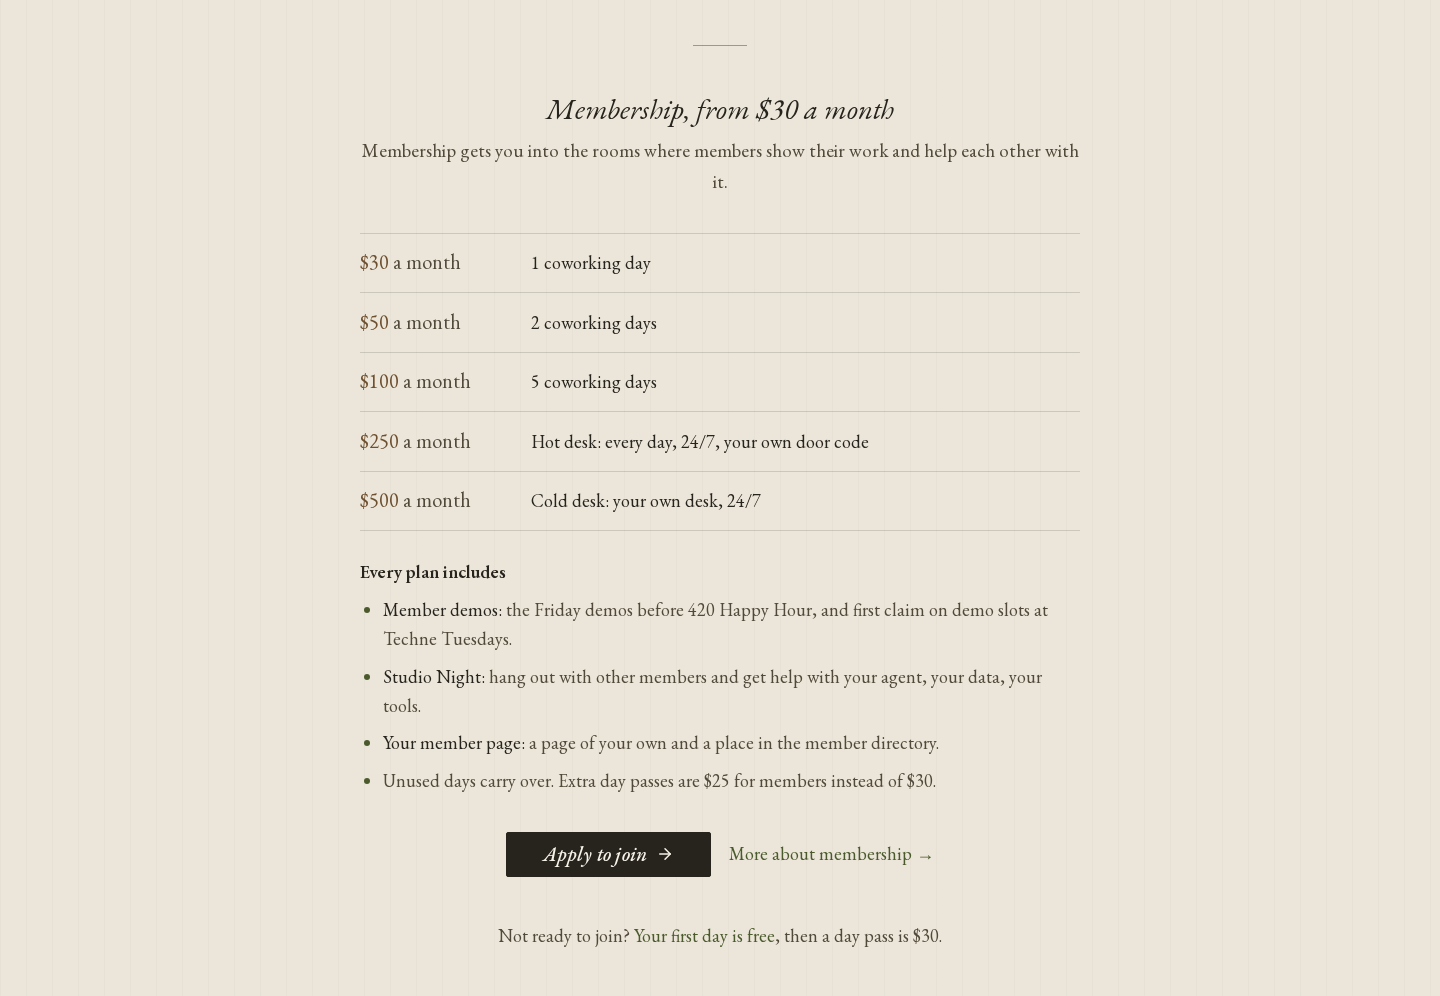
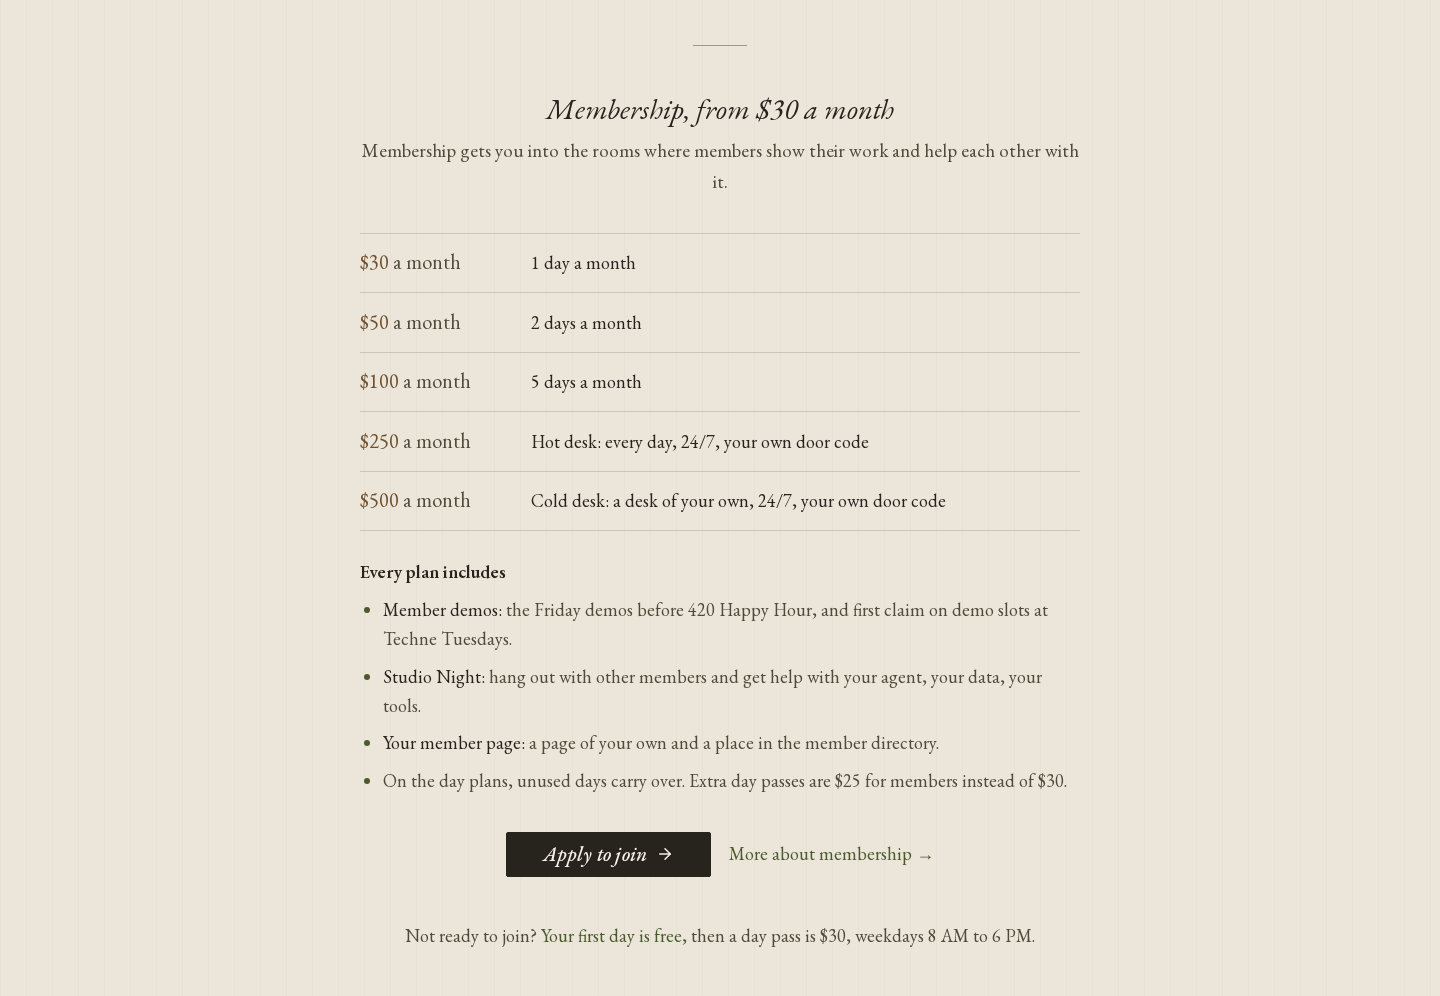
Ladder lines say what each step adds; day-pass hours back on home (T-482)
From the review of the ladder commit:
- Day rows read "1 day a month … every day … a desk of your own", so the ladder reads as one
  climb and the days keep their period.
- Carry-over is said for the day plans only; desks have no monthly days.
- The cold desk names its door code too, so the top step doesn't look like it gives less.
- Desk lines are keyed by the member type they grant, and an unknown step throws instead of
  falling through to "Cold desk".
- MEMBERSHIP_LADDER sorts by price, so "cheapest first" holds by construction.
- "Not ready to join?" keeps the day-pass hours (weekdays 8 AM to 6 PM) the old block had.
- The test also fails if RegenHubLanding sells a desk outside the ladder (comments stripped);
  the shots script reads prices with thousands separators.

diff --git a/apps/web/test/home-offer.test.ts b/apps/web/test/home-offer.test.ts
@@ -118,6 +118,9 @@ describe("the home page's nights", () => {
 });
 
 const src = (file: string) => readFileSync(new URL(`../src/${file}`, import.meta.url), "utf8");
+/** The source without comments: what can reach the page. */
+const code = (file: string) =>
+  src(file).replace(/\/\*[\s\S]*?\*\//g, "").replace(/\{\/\*[\s\S]*?\*\/\}/g, "").replace(/^\s*\/\/.*$/gm, "");
 const HOME_FILES = [
   "app/page.tsx",
   "components/landing/RegenHubLanding.tsx",
@@ -144,8 +147,7 @@ describe("the home page's words", () => {
   it("takes every price on home and /membership from lib/plans.ts: no dollar amount typed into the page", () => {
     for (const f of [...HOME_FILES, "app/membership/page.tsx", "components/membership/MemberOffer.tsx"]) {
       // Comments may name prices; the rendered copy may not.
-      const code = src(f).replace(/\/\*[\s\S]*?\*\//g, "").replace(/\{\/\*[\s\S]*?\*\/\}/g, "").replace(/^\s*\/\/.*$/gm, "");
-      expect(code, f).not.toMatch(/\$\d/);
+      expect(code(f), f).not.toMatch(/\$\d/);
     }
   });
 });
@@ -156,15 +158,15 @@ describe("the home page's membership", () => {
   const plans = html.match(/<ul[^>]*data-testid="home-member-plans"[^>]*>([\s\S]*?)<\/ul>/)?.[1] ?? "";
   const steps = [...plans.matchAll(/<li[^>]*>([\s\S]*?)<\/li>/g)].map((m) => text(m[1]));
 
-  it("is one ladder, cheapest first, from one coworking day to a desk of your own", () => {
+  it("is one ladder, cheapest first: 1, 2, 5 days a month, every day, a desk of your own", () => {
     // Aaron, 11-21: the desks are membership, not a separate "come by the day" block.
     const p = (c: number) => `${formatCents(c)} a month`;
     expect(steps).toEqual([
-      `${p(PLANS.member_basic.defaultMonthlyCents)} 1 coworking day`,
-      `${p(PLANS.member_2day.defaultMonthlyCents)} 2 coworking days`,
-      `${p(PLANS.member_5day.defaultMonthlyCents)} 5 coworking days`,
+      `${p(PLANS.member_basic.defaultMonthlyCents)} 1 day a month`,
+      `${p(PLANS.member_2day.defaultMonthlyCents)} 2 days a month`,
+      `${p(PLANS.member_5day.defaultMonthlyCents)} 5 days a month`,
       `${p(PLANS.hot_desk.defaultMonthlyCents)} Hot desk: every day, 24/7, your own door code`,
-      `${p(PLANS.cold_desk.defaultMonthlyCents)} Cold desk: your own desk, 24/7`,
+      `${p(PLANS.cold_desk.defaultMonthlyCents)} Cold desk: a desk of your own, 24/7, your own door code`,
     ]);
   });
 
@@ -177,5 +179,7 @@ describe("the home page's membership", () => {
     const after = html.slice(html.indexOf("home-not-ready"));
     expect(after.toLowerCase()).not.toContain("desk");
     expect(html).not.toContain("Or come by the day");
+    // The rest of the home page sells no desk of its own.
+    expect(code("components/landing/RegenHubLanding.tsx").toLowerCase()).not.toContain("desk");
   });
 });

diff --git a/apps/web/src/components/landing/HomeMembership.tsx b/apps/web/src/components/landing/HomeMembership.tsx
@@ -5,15 +5,21 @@ import {
   DAY_PASS_MEMBER_CENTS,
   DAY_PASS_PUBLIC_CENTS,
   MEMBERSHIP_LADDER,
-  PLANS,
-  coworkingDays,
   formatCents,
 } from "@/lib/plans";
 
-/** One step of the ladder in a few words: more days, then every day, then a desk of your own. */
+// The desk steps, by the member type they grant: every day, then a desk of your own (draft for Aaron).
+const DESK_LINES: Record<string, string> = {
+  hot_desk: "Hot desk: every day, 24/7, your own door code",
+  cold_desk: "Cold desk: a desk of your own, 24/7, your own door code",
+};
+
+/** One step of the ladder in a few words: 1, 2, 5 days a month, then every day, then a desk of your own. */
 export function ladderLine(p: (typeof MEMBERSHIP_LADDER)[number]): string {
-  if ("monthlyDayPasses" in p) return coworkingDays(p.monthlyDayPasses);
-  return p === PLANS.hot_desk ? "Hot desk: every day, 24/7, your own door code" : "Cold desk: your own desk, 24/7";
+  if ("monthlyDayPasses" in p) return `${p.monthlyDayPasses} day${p.monthlyDayPasses === 1 ? "" : "s"} a month`;
+  const line = DESK_LINES[p.grantsMemberType];
+  if (!line) throw new Error(`no ladder line for ${p.label}`);
+  return line;
 }
 
 /**
@@ -50,7 +56,7 @@ export default function HomeMembership() {
           directory.
         </li>
         <li>
-          Unused days carry over. Extra day passes are {formatCents(DAY_PASS_MEMBER_CENTS)} for members instead of{" "}
+          On the day plans, unused days carry over. Extra day passes are {formatCents(DAY_PASS_MEMBER_CENTS)} for members instead of{" "}
           {formatCents(DAY_PASS_PUBLIC_CENTS)}.
         </li>
       </ul>
@@ -72,7 +78,7 @@ export default function HomeMembership() {
         <Link href="/freeday" className="text-sage hover:underline">
           Your first day is free
         </Link>
-        , then a day pass is {formatCents(DAY_PASS_PUBLIC_CENTS)}.
+        , then a day pass is {formatCents(DAY_PASS_PUBLIC_CENTS)}, weekdays 8 AM to 6 PM.
       </p>
     </>
   );

diff --git a/apps/web/src/lib/plans.ts b/apps/web/src/lib/plans.ts
@@ -106,7 +106,9 @@ export const MEMBER_DAY_PLANS = [PLANS.member_basic, PLANS.member_2day, PLANS.me
  * The whole membership ladder, cheapest first: more days, then every day (hot desk), then a desk of your own
  * (cold desk). What the home page sells as one list.
  */
-export const MEMBERSHIP_LADDER = [...MEMBER_DAY_PLANS, PLANS.hot_desk, PLANS.cold_desk] as const;
+export const MEMBERSHIP_LADDER = [...MEMBER_DAY_PLANS, PLANS.hot_desk, PLANS.cold_desk].sort(
+  (a, b) => a.defaultMonthlyCents - b.defaultMonthlyCents,
+);
 
 /** "From $30 a month": the cheapest member plan. */
 export const MEMBERSHIP_FROM_CENTS = Math.min(...MEMBER_DAY_PLANS.map((p) => p.defaultMonthlyCents));

diff --git a/WALKTHROUGH-T482-home-offer.md b/WALKTHROUGH-T482-home-offer.md
@@ -30,9 +30,9 @@ Open http://127.0.0.1:18790/.
    linked to each night's page. Same nights as `/events` (`after-events-page.png`).
    *Say:* "The nights now come from the same calendar as the events page."
 4. **Membership, one ladder** (`ladder-before-desktop.png` → `ladder-after-desktop.png`, and `-phone`). From $30 a
-   month: 1, 2 and 5 coworking days, then hot desk (every day, 24/7, your own door code), then cold desk (your own
-   desk). What every plan includes, Apply, and one line under it: "Not ready to join? Your first day is free, then a
-   day pass is $30."
+   month: 1, 2 and 5 days a month, then hot desk (every day, 24/7, your own door code), then cold desk (a desk of
+   your own). What every plan includes, Apply, and one line under it: "Not ready to join? Your first day is free,
+   then a day pass is $30, weekdays 8 AM to 6 PM."
    *Say:* "Membership is one ladder now: more days, then every day, then a desk of your own. The free day is one
    line under it."
 5. **The rest.** Members, one line about the co-op, photos ("At the hub", no autoplay), Find us, Stay in touch at
@@ -58,16 +58,16 @@ Reused words are marked *(from /membership)* or *(from /events)*; everything els
    /events)*; while loading: "See the nights on the events page →"
 7. "Membership, from $30 a month" / "Membership gets you into the rooms where members show their work and help each
    other with it." *(from /membership)*
-8. Plan rows (one ladder): "$30 a month · 1 coworking day", "$50 … 2 coworking days", "$100 … 5 coworking days",
-   **new:** "$250 a month · Hot desk: every day, 24/7, your own door code", "$500 a month · Cold desk: your own desk,
-   24/7"
+8. Plan rows (one ladder, **new wording**): "$30 a month · 1 day a month", "$50 … 2 days a month", "$100 … 5 days a
+   month", "$250 a month · Hot desk: every day, 24/7, your own door code", "$500 a month · Cold desk: a desk of your
+   own, 24/7, your own door code"
 9. "Every plan includes": Member demos (the Friday demos before 420 Happy Hour, and first claim on demo slots at
    Techne Tuesdays); Studio Night (hang out with other members and get help with your agent, your data, your tools);
-   Your member page (a page of your own and a place in the member directory); "Unused days carry over. Extra day
-   passes are $25 for members instead of $30." *(from /membership's "What members get")*
+   Your member page (a page of your own and a place in the member directory) *(from /membership's "What members
+   get")*; **new:** "On the day plans, unused days carry over. Extra day passes are $25 for members instead of $30."
 10. "Apply to join", "More about membership →"
-11. **New:** "Not ready to join? Your first day is free, then a day pass is $30." (the link is on "Your first day is
-    free", to /freeday). Replaces the "Or come by the day" block (free day, day pass, desks).
+11. **New:** "Not ready to join? Your first day is free, then a day pass is $30, weekdays 8 AM to 6 PM." (the link is
+    on "Your first day is free", to /freeday). Replaces the "Or come by the day" block (free day, day pass, desks).
 12. "Members" / "Some of the people who work here."
 13. The co-op line, in place of the four pillars: "RegenHub is a cooperative workspace in downtown Boulder. Its
     members and stewards host the nights, and the open ones are open to everyone."
